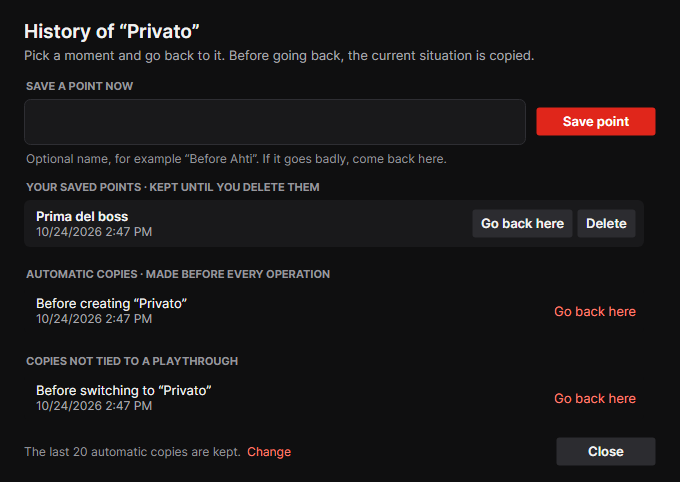
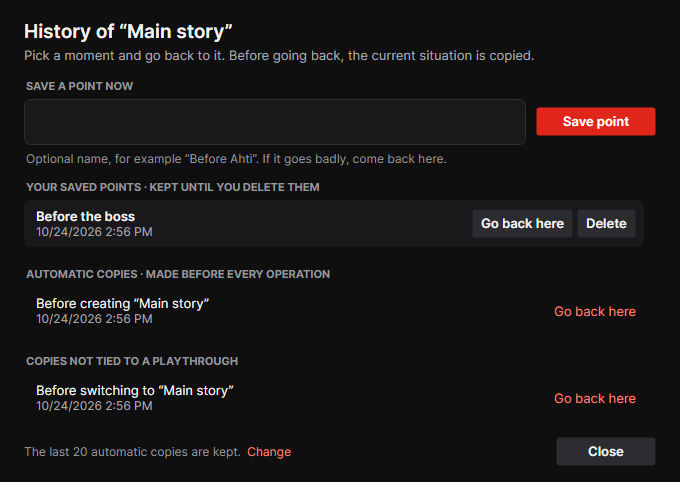
README pictures with English sample data
tools/UiScreenshots now writes its fake playthroughs in the language of
the pictures, so the English ones in the README don't show Italian names.

diff --git a/tools/UiScreenshots/Program.cs b/tools/UiScreenshots/Program.cs
@@ -82,14 +82,22 @@ internal static class Program
         var control = new GameInfo(GameInfo.ControlAppId, "Control Ultimate Edition", "", "", controlSaves, SupportState.Supported);
         var sekiro = new GameInfo("814380", "Sekiro™: Shadows Die Twice", "", "", Path.Combine(account, "814380"), SupportState.SavesElsewhere);
 
+        // Dati finti nella lingua delle immagini: quelle in inglese finiscono nel README.
+        bool english = CultureInfo.CurrentUICulture.TwoLetterISOLanguageName == "en";
+        string second = english ? "Second run" : "Seconda partita";
+        string first = english ? "Main story" : "Storia principale";
+        string removed = english ? "Old test" : "Prova vecchia";
+        string note = english ? "Polaris mission, before Ahti" : "Missione Polaris, prima di Ahti";
+        string error = english ? "The file is in use by another program." : "Il file è in uso da un altro programma.";
+
         SaveManager manager = SaveManager.Open(AppData.Root, steamAccount, control).Value!;
-        manager.CreateProfile("Con Clara", true);
-        manager.SetNote("Profilo_Con Clara", "Missione Polaris, prima di Ahti");
-        manager.CreateProfile("Privato", true);
-        manager.CreateProfile("Da cancellare", false);
-        manager.ActivateProfile("Profilo_Privato");
-        manager.CreateSavestate("Prima del boss");
-        manager.DeleteProfile("Profilo_Da cancellare");
+        manager.CreateProfile(second, true);
+        manager.SetNote(SaveManager.ProfileFolderName(second), note);
+        manager.CreateProfile(first, true);
+        manager.CreateProfile(removed, false);
+        manager.ActivateProfile(SaveManager.ProfileFolderName(first));
+        manager.CreateSavestate(english ? "Before the boss" : "Prima del boss");
+        manager.DeleteProfile(SaveManager.ProfileFolderName(removed));
 
         var dialogs = new NoDialogs();
         var settings = new AppSettings(Path.Combine(AppData.Root, "lss.ini"));
@@ -103,18 +111,18 @@ internal static class Program
         Shot(main, "01-main");
 
         Shot(MessageWindow.Confirm(
-            Loc.F(Strings.ConfirmDeleteHeading, "Con Clara"),
+            Loc.F(Strings.ConfirmDeleteHeading, second),
             Loc.F(Strings.ConfirmDeleteText, Loc.F(Strings.ConfirmDeleteKeepN, 20)),
             Strings.DeletePlaythrough, destructive: true, InfoKind.Warning), "02-confirm-delete");
 
-        Shot(MessageWindow.Inform(Strings.TitleOperationFailed, "Il file è in uso da un altro programma.",
+        Shot(MessageWindow.Inform(Strings.TitleOperationFailed, error,
             InfoKind.Warning, Strings.OpenBackup), "03-inform-error");
 
         Shot(new NewPlaythroughWindow(new NewPlaythroughViewModel(_ => false)), "04-new-playthrough");
-        Shot(new NewPlaythroughWindow(new NewPlaythroughViewModel(_ => false, "Privato")), "05-rename");
+        Shot(new NewPlaythroughWindow(new NewPlaythroughViewModel(_ => false, first)), "05-rename");
 
         Shot(new TextPromptWindow(new TextPromptViewModel(Strings.NoteTitle,
-            Loc.F(Strings.NoteCaption, "Privato").ToUpperInvariant(), "Missione Polaris", Strings.NoteHint,
+            Loc.F(Strings.NoteCaption, first).ToUpperInvariant(), english ? "Polaris mission" : "Missione Polaris", Strings.NoteHint,
             SaveManager.MaxNoteLength, Strings.SaveButton)), "06-note");
 
         Shot(new HistoryWindow(new HistoryViewModel(manager, dialogs,
